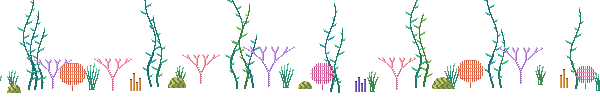
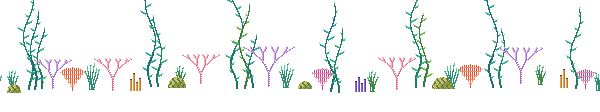
pixel theme: glide loop like the other themes, fins, fan corals

diff --git a/contents/themes/pixel/EntityLayer.qml b/contents/themes/pixel/EntityLayer.qml
@@ -6,10 +6,9 @@ import QtQuick
 // and no ghosts remain). The pool grows on demand; there is no cap.
 // `cell` = screen px per art texel (set by Scene.qml).
 //
-// Smooth motion: sync.js calls beginTick() once per sim tick; ONE shared tween `t` (0..1, linear, as long
-// as the real tick interval) interpolates every sprite between its previous and its new position, and the
-// sprite lands on whole screen pixels (Math.round), so slow fish glide instead of stepping at 25 Hz.
-// No per-sprite animation objects.
+// Smooth motion: sync.js calls beginTick() once per sim tick and target() per sprite; ONE frame loop
+// interpolates every sprite between its previous and its new position and rounds to whole screen pixels,
+// so slow fish glide instead of stepping at 25 Hz. No per-sprite animation objects.
 Item {
     id: layer
 
@@ -17,9 +16,7 @@ Item {
     property bool paused: false
     property int created: 0
     property int live: 0
-    property real t: 1                     // tween between the last two sim ticks
-    property double _last: 0
-    property real _ema: 40                 // smoothed real interval between ticks (ms)
+    property real dpr: 1                   // device pixel ratio (sprites land on whole device pixels)
 
     property var _free: [[], [], [], [], [], [], []]       // indexed by delegate type
     // Stacking: the old renderer created one child per entity, so the newest was always on top.
@@ -28,26 +25,41 @@ Item {
 
     Component { id: spriteComponent; PixelSprite {} }
 
-    NumberAnimation {
-        id: tween
-        target: layer
-        property: "t"
-        from: 0
-        to: 1
-        duration: 40
-        running: false
-    }
-
-    // called by sync.js at the start of every tick: restart the tween. Its length is 1.35x the smoothed tick
-    // interval, so a late or early tick neither stalls nor jumps the sprites.
+    // ── gliding: every live sprite moves from where it is to its newest target in about one tick (40 ms),
+    //    whole screen pixels, one JS loop per frame (instead of two bindings per sprite) ──
+    property var _live: []                      // glide records of the visible sprites
+    property double _t0: 0                      // time of the newest simulation tick (ms)
+    property bool _moving: false
+    property real _dur: 40                      // glide time: the smoothed interval between simulation ticks (ms)
     function beginTick() {
-        var now = Date.now();
-        if (_last > 0) _ema = _ema * 0.85 + Math.max(10, Math.min(150, now - _last)) * 0.15;
-        _last = now;
-        tween.stop();
-        tween.duration = Math.round(_ema * 1.35);
-        t = 0;
-        if (!paused) tween.start(); else t = 1;
+        var now = Date.now(), dt = now - _t0;
+        if (dt > 15 && dt < 120) _dur += (Math.max(30, Math.min(60, dt)) - _dur) * 0.3;
+        _t0 = now; _moving = !paused;
+    }
+    function place(d, x, y) {                  // jump (new entity): no glide from a stale position
+        var r = d.rec;
+        r.x0 = r.x1 = r.cx = x; r.y0 = r.y1 = r.cy = y;
+        d.x = Math.round(x * dpr) / dpr; d.y = Math.round(y * dpr) / dpr;
+    }
+    function target(d, x, y) {                 // continue from where the sprite is now (a teleport jumps)
+        var r = d.rec;
+        if (Math.abs(x - r.cx) > 160 || Math.abs(y - r.cy) > 160) { place(d, x, y); return; }
+        r.x0 = r.cx; r.y0 = r.cy; r.x1 = x; r.y1 = y;
+    }
+    FrameAnimation {
+        running: layer._moving
+        onTriggered: {
+            var t = (Date.now() - layer._t0) / layer._dur, k = layer.dpr, live = layer._live;
+            // past the target (a late tick) keep gliding at the same speed for a moment instead of stalling
+            if (t >= 1.3) { t = 1.3; layer._moving = false; }
+            for (var i = 0; i < live.length; i++) {
+                var r = live[i], d = r.d;
+                r.cx = r.x0 + (r.x1 - r.x0) * t; r.cy = r.y0 + (r.y1 - r.y0) * t;
+                var nx = Math.round(r.cx * k) / k, ny = Math.round(r.cy * k) / k;
+                if (d.x !== nx) d.x = nx;
+                if (d.y !== ny) d.y = ny;
+            }
+        }
     }
 
     function createObject(parent, props) {
@@ -58,6 +70,7 @@ Item {
             d = spriteComponent.createObject(layer, { type: t, visible: false });
             if (!d) return null;
             d.pool = layer;
+            d.rec = { d: d, i: -1, x0: 0, y0: 0, x1: 0, y1: 0, cx: 0, cy: 0 };
             created++;
         }
         d.z = ++_zc;
@@ -66,6 +79,7 @@ Item {
         d.sparkle = 0; d.cls = 0; d.frame = 0; d.glow = 0.4; d.lure = 1;
         for (var k in props) d[k] = props[k];
         d.visible = true;
+        d.rec.i = _live.length; _live.push(d.rec);
         live++;
         return d;
     }
@@ -73,6 +87,9 @@ Item {
     function _release(d) {
         if (!d.visible) return;
         d.visible = false;
+        var r = d.rec, last = _live.pop();                 // swap-remove from the glide list
+        if (last !== r) { _live[r.i] = last; last.i = r.i; }
+        r.i = -1;
         _free[d.type].push(d);
         live--;
     }

diff --git a/contents/themes/pixel/sync.js b/contents/themes/pixel/sync.js
@@ -24,7 +24,6 @@ function sync(sim, parent, component) {
 
 function _sync(sim, parent, component) {
     var cc = sim._c, stress = sim.cpuStress, cell = component.cell;
-    var t0 = component.t;                          // tween progress of the tick that is ending
     component.beginTick();
     var now = Boids._now();
     var pulse = Core.stressPulse(stress, now);
@@ -45,20 +44,18 @@ function _sync(sim, parent, component) {
             else if (kind === 'bubble') size = ent.scale;
             else size = cc.wormSize;
 
-            var tx = ent.x, ty = ent.y;
             var dg = ent.delegate;
             if (!dg) {
-                dg = component.createObject(parent, { ax0: tx, ay0: ty, ax1: tx, ay1: ty, size: size, type: kd.type,
-                                                      spriteData: [], colorString: "#FFFFFF", rotation: 0 });
+                dg = component.createObject(parent, { size: size, type: kd.type, spriteData: [], colorString: "#FFFFFF", rotation: 0 });
                 ent.delegate = dg;
                 if (!dg) continue;
                 dg.z = kd.layer * Z + dg.z;
                 dg.phase = (ent.x * 7.31 + ent.y * 3.17) % 4;      // desynchronise the beat of a school
                 if (kind === 'fish') dg.variant = T.fishVariant(ent.color);
+                component.place(dg, ent.x, ent.y);                 // no glide from a stale pooled position
+            } else {
+                component.target(dg, ent.x, ent.y);
             }
-            var cx = dg.ax0 + (dg.ax1 - dg.ax0) * t0, cy = dg.ay0 + (dg.ay1 - dg.ay0) * t0;
-            if (Math.abs(tx - cx) > 160 || Math.abs(ty - cy) > 160) { cx = tx; cy = ty; }      // teleport: no streak
-            dg.ax0 = cx; dg.ay0 = cy; dg.ax1 = tx; dg.ay1 = ty;
             var cls = kd.classes.length > 1 ? T.classFor(kind, size) : 0;
             if (dg.cls !== cls) dg.cls = cls;
 

diff --git a/tools/gen-pixel-theme.js b/tools/gen-pixel-theme.js
@@ -272,7 +272,7 @@ function orcaFrame(art, frame) {
         for (let y = 0; y < A.rows; y++) if (y + 0.5 >= topAt(bx) && y + 0.5 <= botAt(bx)) g[y][x] = 'K';
     }
     // dorsal fin: tall, swept back, concave trailing edge
-    poly(g, sc([[19, 13.5], [21, 8.8], [24.5, 4.2], [29, 1.1], [31.6, 1.1], [31.6, 4.4], [33, 8.4], [37.5, 14.8]]), 'K');
+    poly(g, sc([[19.5, 13.5], [21.4, 8.4], [24, 4], [27.4, 1.1], [30.2, 1.1], [30.6, 4.6], [32.4, 9], [36.5, 14.8]]), 'K');
     // flukes: crescent on the tail stock, sheared by the beat; level stock
     const sh = ([x, y]) => [x * s, (y + dy * Math.max(0, x - 49) / 9) * s];
     poly(g, [[48, 16.6], [51.5, 14], [54.5, 10.6], [58, 7.8], [58.6, 10.6], [57, 14.2], [54.6, 16.6], [55.6, 18], [54.6, 19.4], [57, 21.6], [58.6, 25.2], [58, 28], [54.5, 25.2], [51.5, 22.2], [48, 19.6]].map(sh), 'K');
@@ -640,10 +640,10 @@ function floraImg() {
     const fan = (x0, r, c1, c2) => {
         const y0 = rootY(x0);
         for (let j = 0; j < 5; j++) P(x0, y0 - j, c1);
-        for (let j = 0; j < r * 2; j++) for (let i = -r; i <= r; i++) {
-            const yy = j - 0, d = Math.hypot(i, (j - r) * 1.0);
-            if (d > r || (j < r && false)) continue;
-            if ((i & 1) === 0 || j % 4 === 0) P(x0 + i, y0 - 5 - j * 0.9, (j % 4 === 0 || i === 0) ? c2 : c1);
+        const R = Math.round(r * 1.45);
+        for (let j = 0; j <= R; j++) for (let i = -R; i <= R; i++) {
+            if (Math.abs(i) > 1 + j * 0.8 || Math.hypot(i, j) > R) continue;
+            if ((i & 1) === 0 || j % 4 === 0) P(x0 + i, y0 - 4 - j, (j % 4 === 0 || Math.abs(i) > j * 0.8 - 1) ? c2 : c1);
         }
     };
     fan(72, 13, 'F1', 'F2'); fan(322, 12, 'F3', 'F4'); fan(470, 13, 'F1', 'F2'); fan(585, 10, 'F3', 'F4');

diff --git a/contents/themes/pixel/PixelSprite.qml b/contents/themes/pixel/PixelSprite.qml
@@ -7,7 +7,7 @@ import "theme.js" as T
 //
 // Sprites are shared textures shown with nearest-neighbour filtering at `cell * mul` px per texel, so every
 // creature uses the same art-pixel grid. The position is interpolated between the two last sim ticks by the
-// layer's shared tween and then rounded to WHOLE SCREEN PIXELS (not art pixels): smooth glide.
+// layer's frame loop and then rounded to WHOLE SCREEN PIXELS (not art pixels): smooth glide.
 // Fish = body image + (stress) tint image; angler = glow + body + lure; the rest = one image.
 // No per-entity layers, effects, timers or animation objects: frames are chosen by the adapter.
 Item {
@@ -30,13 +30,7 @@ Item {
     property var pool: null
     function release() { if (pool) pool._release(root); }
 
-    // position: previous and current sim target (screen px), written by sync.js
-    property real ax0: 0
-    property real ay0: 0
-    property real ax1: 0
-    property real ay1: 0
-    x: Math.round(ax0 + (ax1 - ax0) * (pool ? pool.t : 1))
-    y: Math.round(ay0 + (ay1 - ay0) * (pool ? pool.t : 1))
+    property var rec: null                 // glide record owned by the layer (targets, pool slot)
 
     // theme state (written by sync.js)
     property string variant: "aqua"        // fish: colour ramp of the body image

diff --git a/contents/themes/pixel/Scene.qml b/contents/themes/pixel/Scene.qml
@@ -36,5 +36,5 @@ Item {
         customTop: scene.customWater ? scene.waterTop : ""
         customBottom: scene.customWater ? scene.waterBottom : ""
     }
-    EntityLayer { id: entities; anchors.fill: parent; z: 1; enabled: false; cell: scene.ps; paused: scene.paused }
+    EntityLayer { id: entities; anchors.fill: parent; z: 1; enabled: false; cell: scene.ps; dpr: Math.max(1, scene.dpr); paused: scene.paused }
 }
